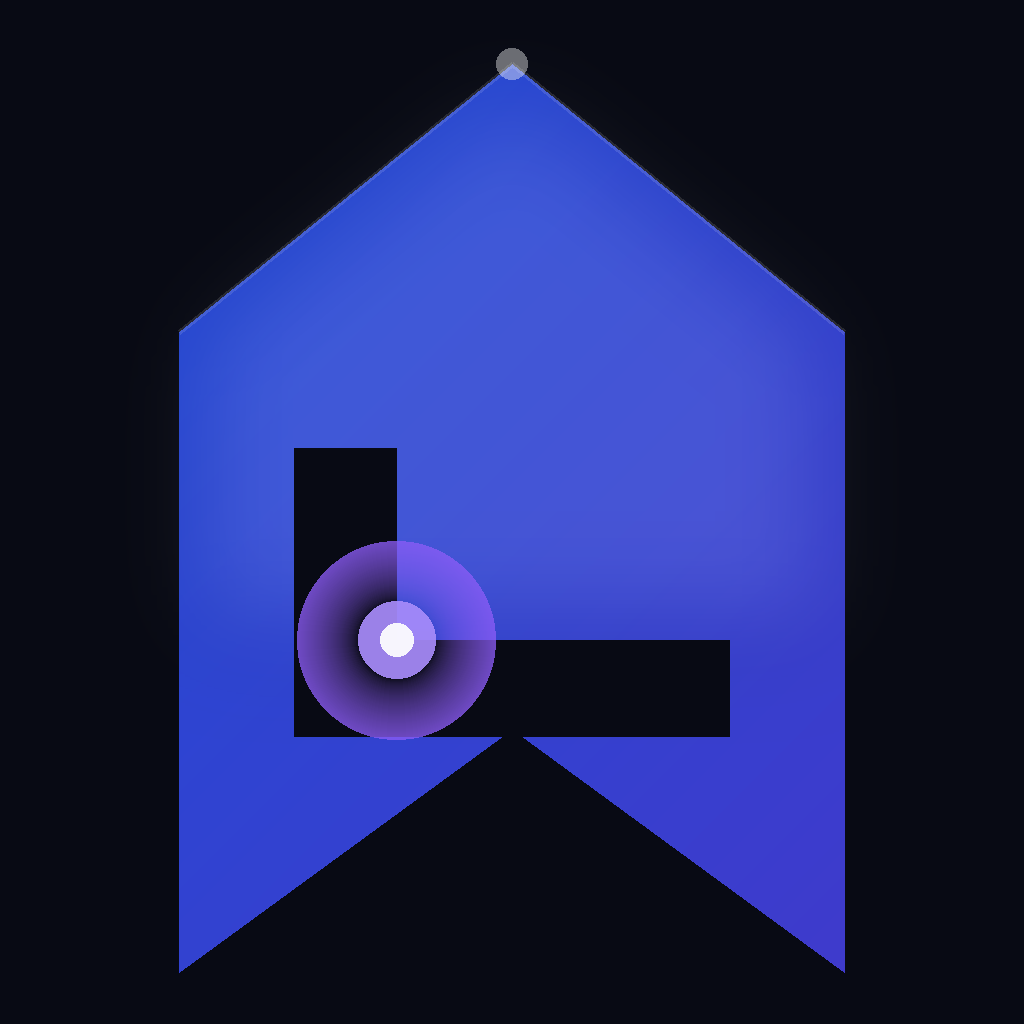
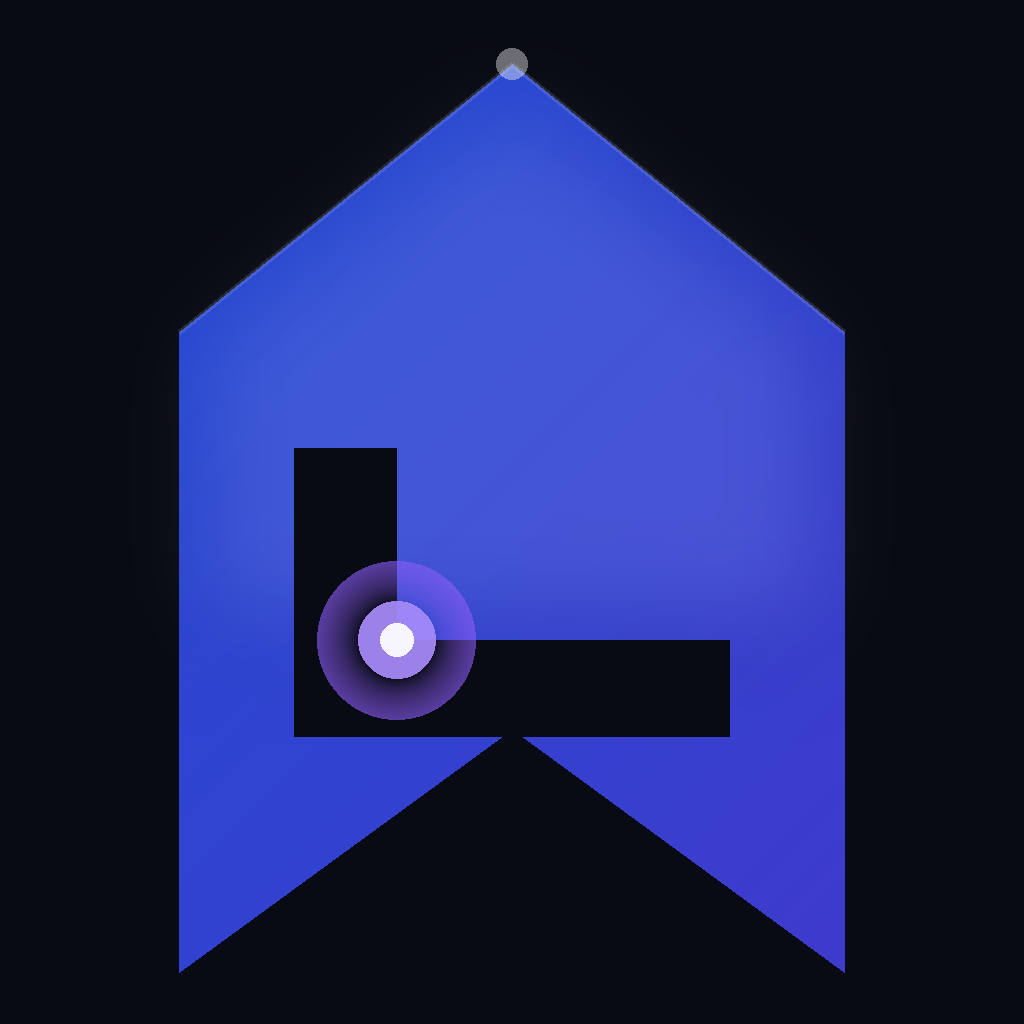
fix: reduce focus node glow radius 20% and opacity 20% for clearer bookmark silhouette

Changed region(s): [[0.2812, 0.5312, 0.5, 0.75]]

diff --git a/scripts/generate_icons.py b/scripts/generate_icons.py
@@ -30,7 +30,7 @@ L_PTS    = [(62,70),(62,100),(114,100),(114,115),(46,115),(46,70)]
 # Focus node
 NX, NY   = 62, 100
 NODE_R   = 6.05   # disc radius
-GLOW_R   = 15.4   # halo radius
+GLOW_R   = 12.32  # halo radius, reduced 20% so the bookmark remains primary
 
 # Colours
 C_BLUE      = (29,  78, 216)   # #1d4ed8
@@ -203,7 +203,7 @@ def render_icon(size: int, bg_color, round_corners=True, transparent_bg=False):
                      cx=int(NX*scale), cy=int(NY*scale),
                      r_inner=int(NODE_R*scale),
                      r_outer=int(GLOW_R*scale),
-                     colour=C_PURPLE1, max_alpha=200)
+                     colour=C_PURPLE1, max_alpha=160)
     img.alpha_composite(glow_layer)
 
     # 7. Lavender disc
